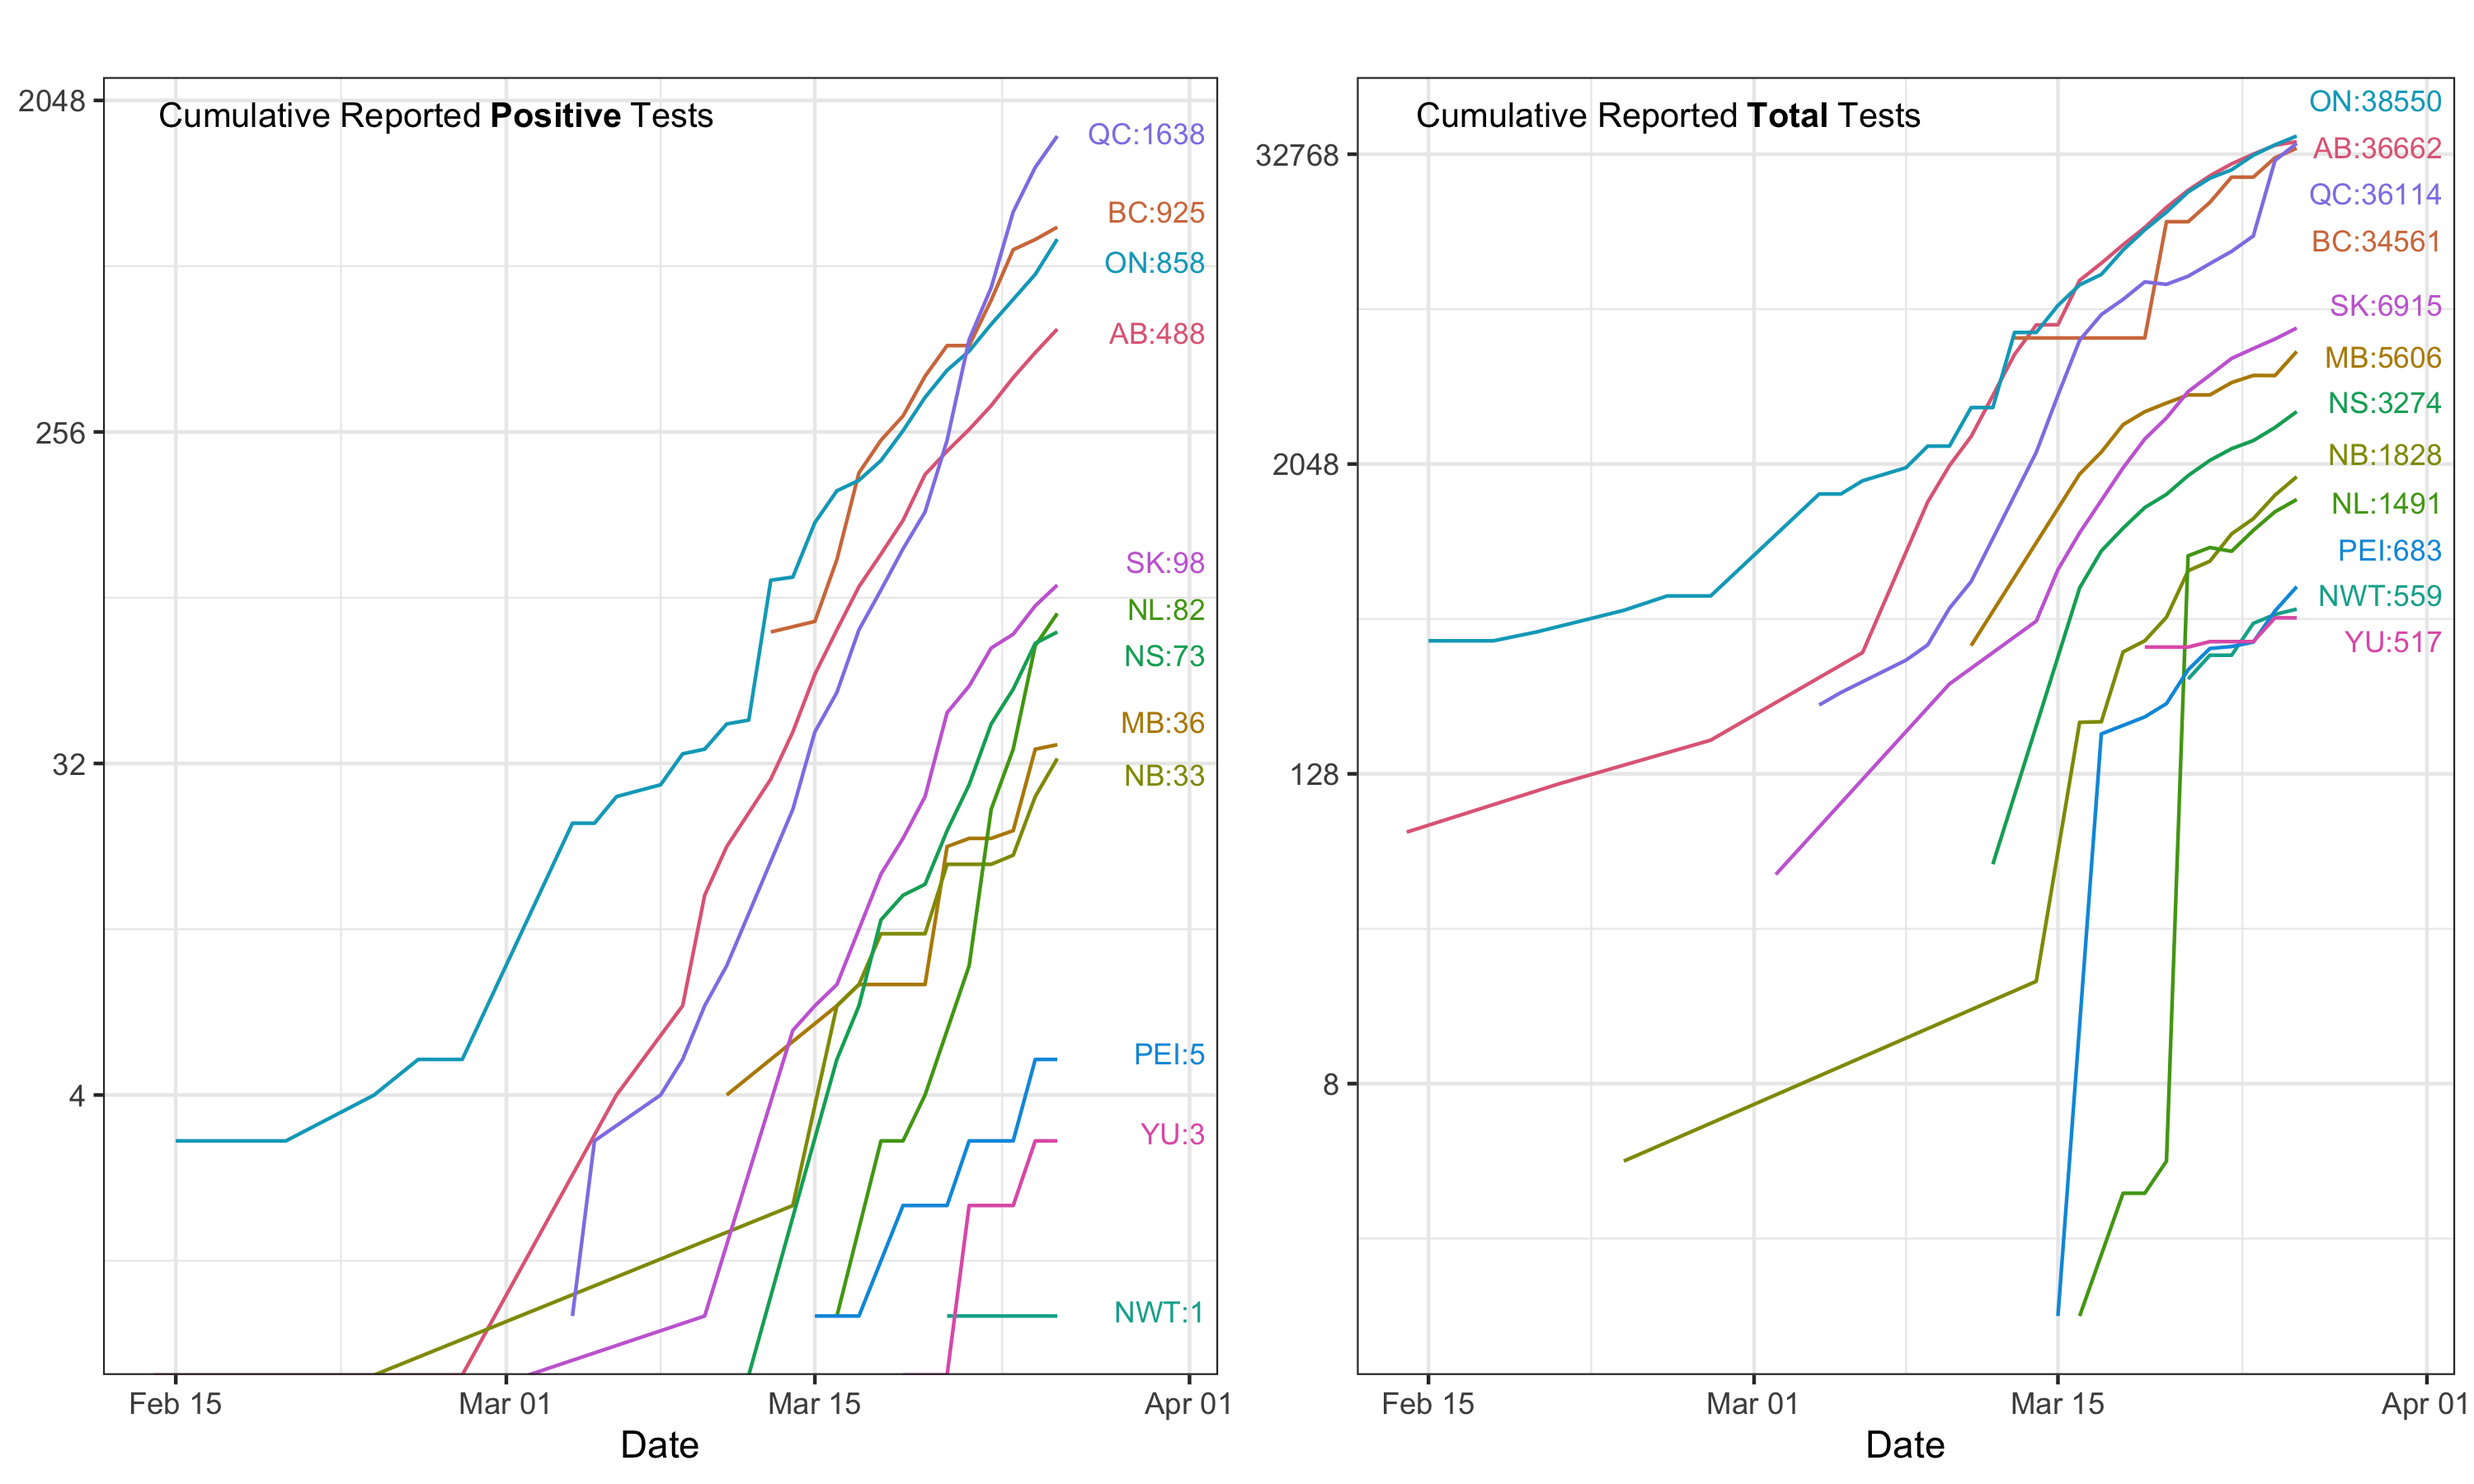
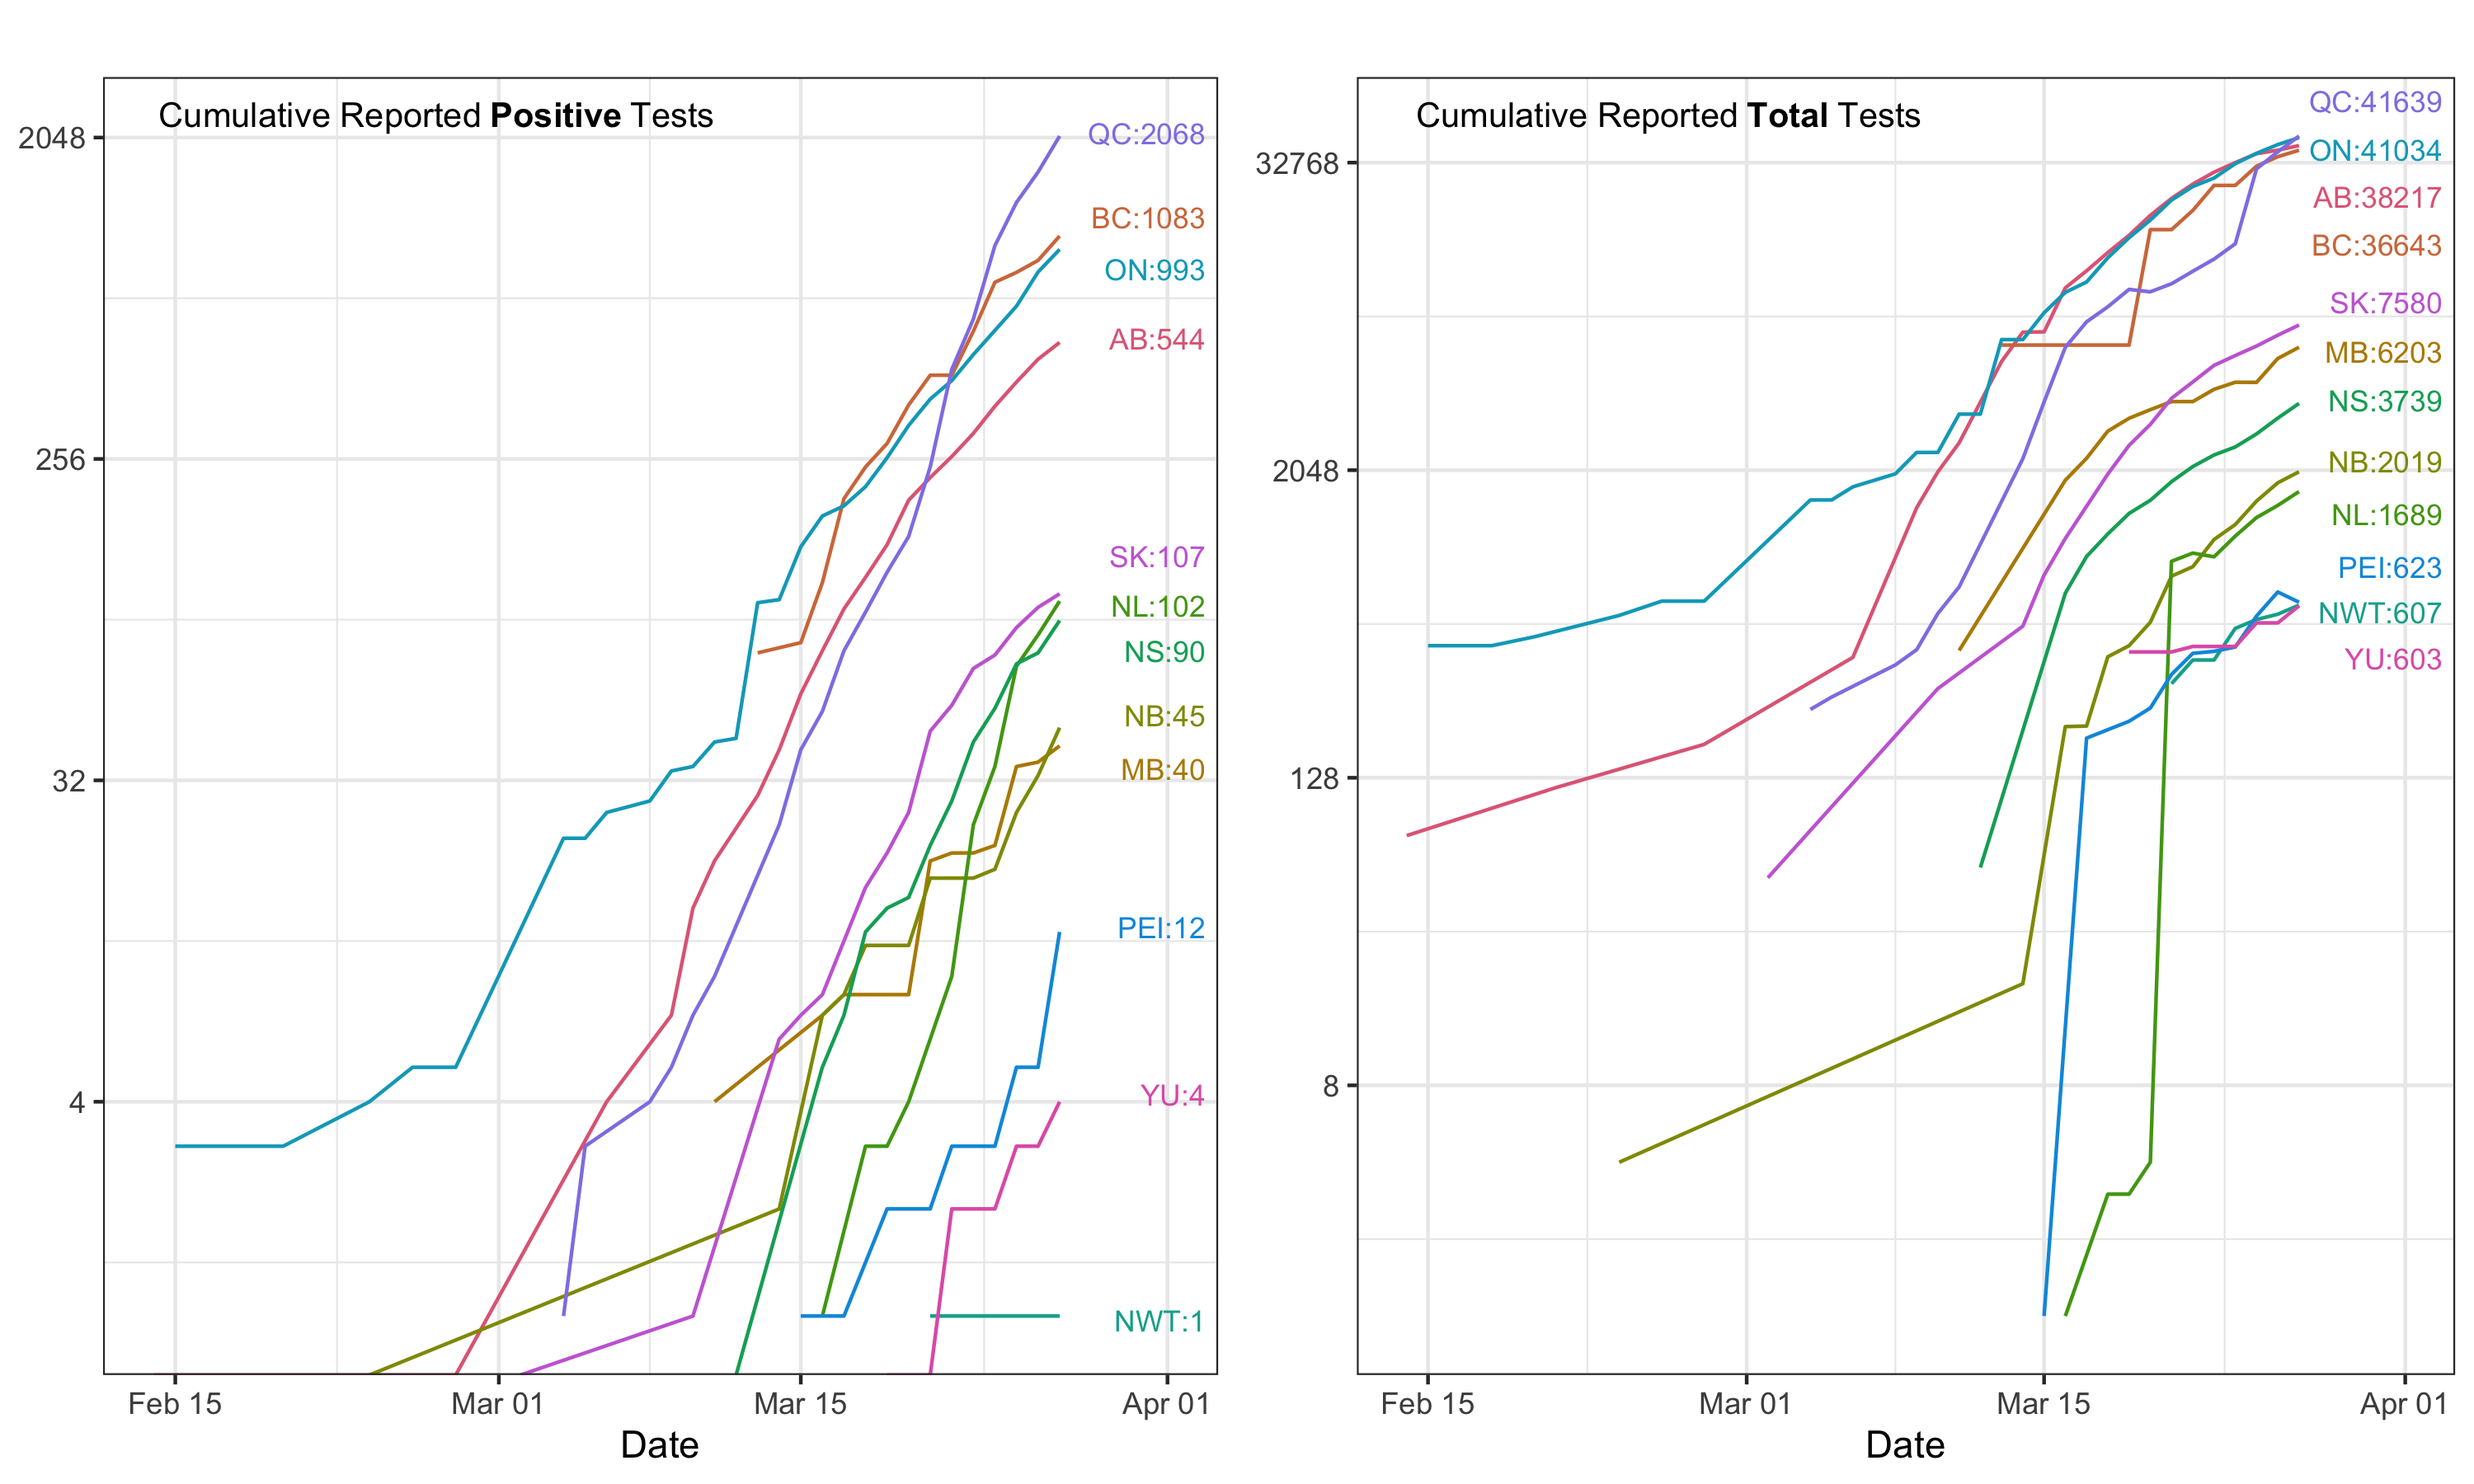
March 27th update

diff --git a/README.md b/README.md
@@ -1,6 +1,6 @@
 This is a public open-resource page for the COVID19 testing data for Canada. 
 
-_last updated: March 26th 10:11 Toronto time_
+_last updated: March 28th 00:18 Toronto time_
 
 ## COVID19 Testing Data
 
